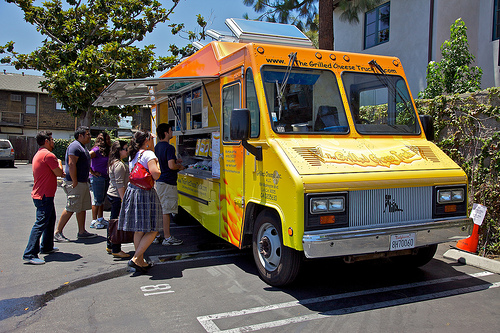
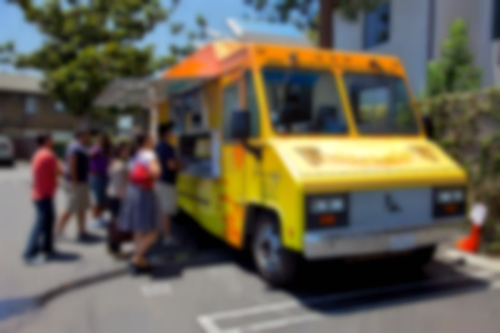
optimized performance by removing the blur in css and apply it to the static image instead

diff --git a/style.css b/style.css
@@ -81,12 +81,10 @@ html, body, .app-container{
 	background-image: url('images/bg-overlay.jpg');
 	background-repeat: no-repeat;
 	background-size: cover;
-	filter: blur(10px);
 	height: 100%;
 	position: fixed;
 	top: 0;
 	width: 100%;
-  	-webkit-filter: blur(10px);
 }
 
 /*  FOOD TRUCK POP UP */
